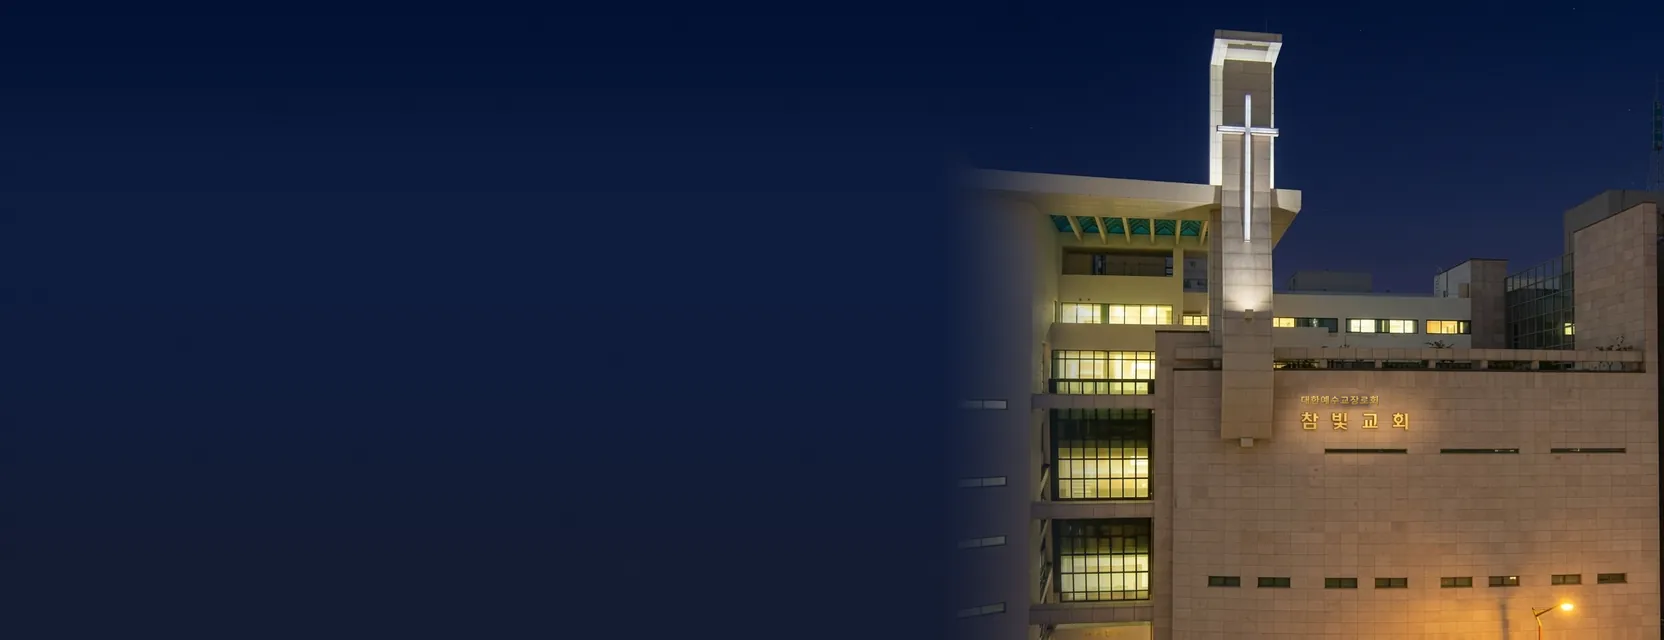
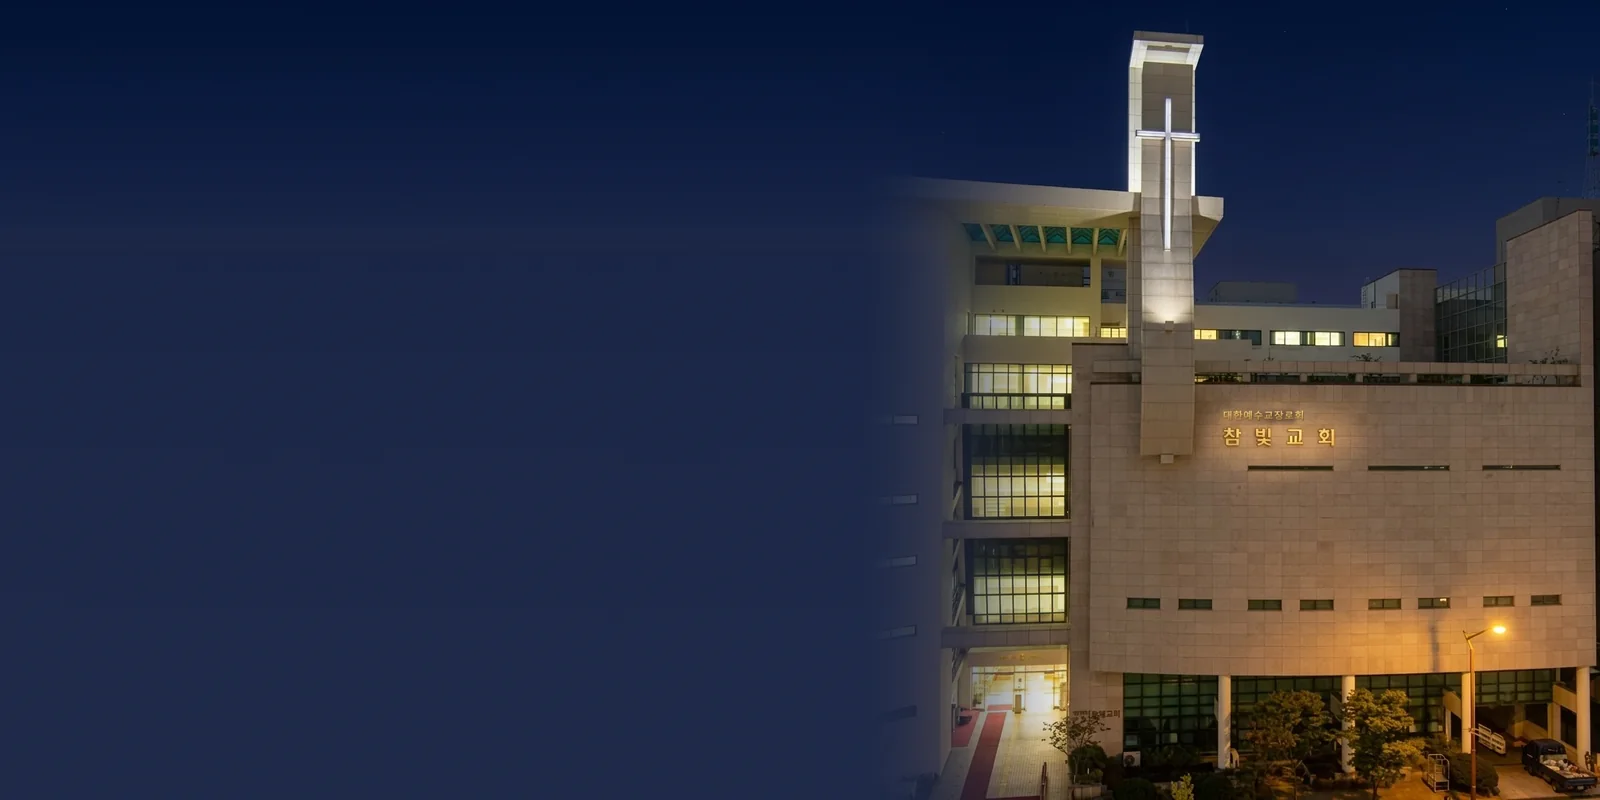
교회전경다시

Changed region(s): [[0.5625, 0.0312, 1.0, 1.0]]

diff --git a/frontend/src/pages/Visit/Visit.css b/frontend/src/pages/Visit/Visit.css
@@ -43,7 +43,8 @@
 
 /* ── Hero ──────────────────────────────── */
 /* 벤토 카드 질감 — 넓은 라운드(22px, lg 24px) + 부드러운 그림자.
-   사진이 있으면 안쪽 1px 흰 링으로 유리 액자의 두께감을 준다 */
+   사진이 있어도 바깥 테두리는 다른 카드와 같은 토큰 — 다크에서 흰 테두리를 세게 주면
+   밤 사진 위에 액자선만 도드라진다(검증됨). 액자 느낌은 안쪽 링이 옅게만 맡는다 */
 .visit-hero {
   position: relative;
   border-radius: 22px;
@@ -54,12 +55,17 @@
   isolation: isolate;
 }
 .visit-hero.has-photo {
-  border-color: rgba(255, 255, 255, 0.35);
+  border-color: var(--card-border);
+}
+.dark .visit-hero.has-photo {
+  border-color: rgba(255, 255, 255, 0.08);
 }
 
 /* 사진 무대 — 실제 예배당 사진(라이트 낮 / 다크 밤, Visit.tsx 가 고른다).
-   자산은 1664x640(2.6:1) 와이드, 오른쪽 위 기준으로 잘라 교회는 늘 오른쪽에 온전히 남고
-   왼쪽 하늘 여백이 글자 자리가 된다. 사진이 없으면 시간대 하늘 토큰으로 대신한다 */
+   자산은 1600x800(2:1) 와이드: 오른쪽 47%가 십자가 탑부터 입구·가로등까지 교회 전경,
+   왼쪽은 그 사진의 하늘을 이어 그린 여백(글자 자리). 카드는 자산보다 좁은 비율(16:10)이라
+   세로는 온전히 남고 왼쪽 하늘만 잘린다 — 오른쪽 기준 정렬이 교회를 지킨다.
+   사진이 없으면 시간대 하늘 토큰으로 대신한다 */
 .visit-hero-photo {
   position: relative;
   min-height: 200px;
@@ -79,7 +85,7 @@
   width: 100%;
   height: 100%;
   object-fit: cover;
-  object-position: right top;
+  object-position: right center;
   z-index: -2;
 }
 
@@ -93,28 +99,39 @@
   z-index: -1;
   pointer-events: none;
 }
-/* 사진이 있으면 시간대 하늘 그라데이션은 끈다 — 사진 위에 색이 얹히지 않게 */
+/* 사진이 있으면 시간대 하늘 그라데이션은 끄고, 카드 비율을 사진 비율에 맞춘다
+   (16:10 — 교회 전경이 세로로 잘리지 않는 가장 넓은 비율) */
 .visit-hero.has-photo .visit-hero-photo {
   background-image: none;
+  min-height: 0;
+  aspect-ratio: 16 / 10;
 }
-/* 라이트: /about 히어로와 같은 문법 — 스크림 없이 사진 원색 그대로,
-   가독성은 글씨의 진한 그림자(halo)가 담당한다. 다크만 딥블루 스크림 유지.
+/* 스크림 — 글자가 앉는 왼쪽 아래만 옅게 누른다. 교회 전경(오른쪽)은 원색 그대로.
    (테마 분기 금지 원칙의 예외 — 사진 위 오버레이는 토큰으로 못 가르는 확정 패턴)
-   밤 사진은 하늘이 이미 남색이라 글자 자리(왼쪽)는 옅게만 누르고,
-   불 켜진 예배당 창(오른쪽 아래)이 죽지 않도록 아래쪽 농도는 절반 수준으로 */
+   라이트: 낮 사진의 밝은 하늘·입구 위에 흰 글자가 뜨므로 바닥만 살짝. 가독성의 나머지는 halo 그림자.
+   다크: 밤 사진은 하늘이 이미 남색이라 더 옅게 — 불 켜진 창과 가로등 불빛이 죽지 않게 */
+.visit-hero.has-photo .visit-hero-scrim {
+  background:
+    linear-gradient(to top, rgba(10, 22, 48, 0.4) 0%, rgba(10, 22, 48, 0.16) 40%, transparent 70%),
+    linear-gradient(100deg, rgba(10, 22, 48, 0.14) 0%, rgba(10, 22, 48, 0.05) 40%, transparent 60%);
+}
 .dark .visit-hero.has-photo .visit-hero-scrim {
   background:
-    linear-gradient(to top, rgba(10, 22, 48, 0.5) 0%, rgba(10, 22, 48, 0.26) 34%, rgba(10, 22, 48, 0.08) 68%, rgba(10, 22, 48, 0.04) 100%),
-    linear-gradient(100deg, rgba(10, 22, 48, 0.42) 0%, rgba(10, 22, 48, 0.18) 45%, transparent 75%);
+    linear-gradient(to top, rgba(6, 14, 36, 0.42) 0%, rgba(6, 14, 36, 0.18) 38%, transparent 68%),
+    linear-gradient(100deg, rgba(6, 14, 36, 0.3) 0%, rgba(6, 14, 36, 0.1) 42%, transparent 64%);
 }
-/* 안쪽 흰 링 — 유리 액자 */
+/* 안쪽 흰 링 — 유리 액자. 아주 옅게만: 라이트는 흰 페이지 위라 거의 안 보이고,
+   다크는 밤하늘 위에서 선이 도드라지지 않을 만큼만 */
 .visit-hero.has-photo .visit-hero-scrim::after {
   content: '';
   position: absolute;
   inset: 0;
   /* 위쪽 두 모서리만 카드 곡률(카드 overflow 가 어차피 잘라내므로 값은 넉넉히) */
   border-radius: 22px 22px 0 0;
-  box-shadow: inset 0 0 0 1px rgba(255, 255, 255, 0.14), inset 0 1px 0 rgba(255, 255, 255, 0.22);
+  box-shadow: inset 0 0 0 1px rgba(255, 255, 255, 0.1), inset 0 1px 0 rgba(255, 255, 255, 0.16);
+}
+.dark .visit-hero.has-photo .visit-hero-scrim::after {
+  box-shadow: inset 0 0 0 1px rgba(255, 255, 255, 0.05), inset 0 1px 0 rgba(255, 255, 255, 0.08);
 }
 
 .visit-hero-body {
@@ -1137,11 +1154,14 @@
   }
 
   .visit-hero-photo {
-    /* 자산(1664x640, 2.6:1) 비율 그대로 — 건물이 십자가 탑부터 입구까지 잘리지 않고 온전히 보인다.
-       콘텐츠 폭 1200px 에서 약 460px. 좁은 lg 에서도 비율이 유지돼 오른쪽 교회는 늘 온전하다 */
+    /* 자산(1600x800, 2:1) 비율 그대로 — 십자가 탑부터 가로등까지 교회 전경이 온전히,
+       왼쪽 하늘 여백도 전부 보인다. 본문 칼럼(약 830px)에서 약 415px */
     min-height: 0;
-    aspect-ratio: 1664 / 640;
+    aspect-ratio: 2 / 1;
     padding: 32px 40px 36px;
+  }
+  .visit-hero.has-photo .visit-hero-photo {
+    aspect-ratio: 2 / 1;
   }
 
   /* 넓어진 하늘 여백에 맞춰 타이포도 한 단계 — 여백이 '빈 곳'이 아니라 제목의 호흡으로 읽히게 */

diff --git a/frontend/src/pages/Visit/Visit.tsx b/frontend/src/pages/Visit/Visit.tsx
@@ -32,8 +32,9 @@ const moodOfHour = (h: number): 'dawn' | 'day' | 'dusk' | 'night' => {
  * 그래서 지도 카드가 맨 위에 오고 교통·주차 안내는 접어 두었다.
  */
 /** 히어로 배경 — public/images/visit/. 실제 예배당 사진을 라이트=낮, 다크=밤으로 나눠 쓴다.
- *  (두 장 모두 왼쪽 하늘 여백 + 오른쪽 교회 구도로 가공된 1664x640 와이드 자산.
- *   이전 일러스트 배경은 _backup/church-hero.webp 에 보관) 비우면 /about 사진을 쓴다 */
+ *  (두 장 모두 1600x800 와이드 자산: 오른쪽에 십자가 탑~입구·가로등까지 교회 전경, 왼쪽은
+ *   그 사진의 하늘을 이어 그린 여백. 원본 1024x1048 사진에서 스크립트로 합성 —
+ *   상단만 잘라 교회가 작게 보이던 v1 과 일러스트 배경은 _backup/ 에 보관) 비우면 /about 사진을 쓴다 */
 const VISIT_HERO_IMAGES = {
   light: '/images/visit/church-day.webp',
   dark: '/images/visit/church-night.webp',

diff --git a/frontend/scripts/build_visit_hero.py b/frontend/scripts/build_visit_hero.py
@@ -1,0 +1,68 @@
+"""/visit 히어로 자산 빌드.
+
+원본 예배당 사진(1024x1048, 낮/밤)을 오른쪽에 두고 — 십자가 탑부터 입구·가로등까지 전경 그대로 —
+왼쪽은 그 사진의 하늘에서 샘플한 그라데이션으로 이어 붙인 1600x800(2:1) 와이드 자산을 만든다.
+교회 왼쪽 가장자리(이웃 건물 제외)는 하늘로 부드럽게 녹인다.
+
+    python scripts/build_visit_hero.py
+      → public/images/visit/_backup/church-{day,night}-src.webp 를 읽어
+        public/images/visit/church-{day,night}.webp 를 덮어쓴다
+    python scripts/build_visit_hero.py 낮원본.png 밤원본.png   # 다른 원본으로
+"""
+import sys
+from pathlib import Path
+
+import numpy as np
+from PIL import Image
+
+ROOT = Path(__file__).resolve().parents[1]
+VISIT = ROOT / 'public' / 'images' / 'visit'
+SRC = {
+    'day': Path(sys.argv[1]) if len(sys.argv) > 1 else VISIT / '_backup' / 'church-day-src.webp',
+    'night': Path(sys.argv[2]) if len(sys.argv) > 2 else VISIT / '_backup' / 'church-night-src.webp',
+}
+W, H = 1600, 800
+CROP_L = 44          # 원본 왼쪽 끝의 이웃 건물 잘라냄
+FEATHER = 260        # 교회 왼쪽 가장자리를 하늘로 녹이는 폭(캔버스 px)
+SKY_X = (540, 600)   # 순수 하늘 샘플 열(원본 좌표, 십자가 탑 오른쪽)
+SKY_Y = 330          # 이 행까지가 순수 하늘
+# 지평선 쪽 외삽 감쇠 — 낮은 옅게 밝아져도 자연스럽지만 밤은 남색을 지켜야 회보라로 바래지 않는다
+DAMP = {'day': 0.35, 'night': 0.10}
+
+
+def smoothstep(t):
+    t = np.clip(t, 0, 1)
+    return t * t * (3 - 2 * t)
+
+
+for key, path in SRC.items():
+    im = Image.open(path).convert('RGB')
+    src = np.asarray(im).astype(np.float32)
+    scale = H / im.height
+
+    # 하늘 그라데이션: 샘플 열의 행별 평균 → 캔버스 스케일로 보간 → 아래로 완만히 외삽
+    col = src[:SKY_Y, SKY_X[0]:SKY_X[1]].mean(axis=1)
+    sky_rows = int(SKY_Y * scale)
+    ys = np.linspace(0, SKY_Y - 1, sky_rows)
+    grad = np.stack([np.interp(ys, np.arange(SKY_Y), col[:, c]) for c in range(3)], axis=1)
+    top, bot = grad[:40].mean(axis=0), grad[-40:].mean(axis=0)
+    slope = (bot - top) / max(sky_rows, 1)
+    rest = H - sky_rows
+    t = np.arange(rest) / max(rest, 1)
+    ext = bot[None, :] + slope[None, :] * (rest * (1 - (1 - t) ** 2) * DAMP[key])[:, None]
+    grad = np.clip(np.concatenate([grad, ext], axis=0), 0, 255)
+    canvas = np.repeat(grad[:, None, :], W, axis=1)
+    canvas += np.random.default_rng(7).normal(0, 1.2, canvas.shape)  # 밴딩 방지 노이즈
+
+    # 교회 레이어: 높이 H 에 맞춰 축소, 오른쪽 정렬, 왼쪽 가장자리 페더
+    church = im.crop((CROP_L, 0, im.width, im.height))
+    cw = round(church.width * scale)
+    ch = np.asarray(church.resize((cw, H), Image.LANCZOS)).astype(np.float32)
+    x0 = W - cw
+    alpha = smoothstep(np.arange(cw) / FEATHER)[None, :, None]
+    canvas[:, x0:, :] = ch * alpha + canvas[:, x0:, :] * (1 - alpha)
+
+    out = Image.fromarray(np.clip(canvas, 0, 255).astype(np.uint8))
+    dest = VISIT / f'church-{key}.webp'
+    out.save(dest, 'WEBP', quality=84, method=6)
+    print(f'{dest.name}: {out.size}, church {cw}px ({cw / W:.0%})')
